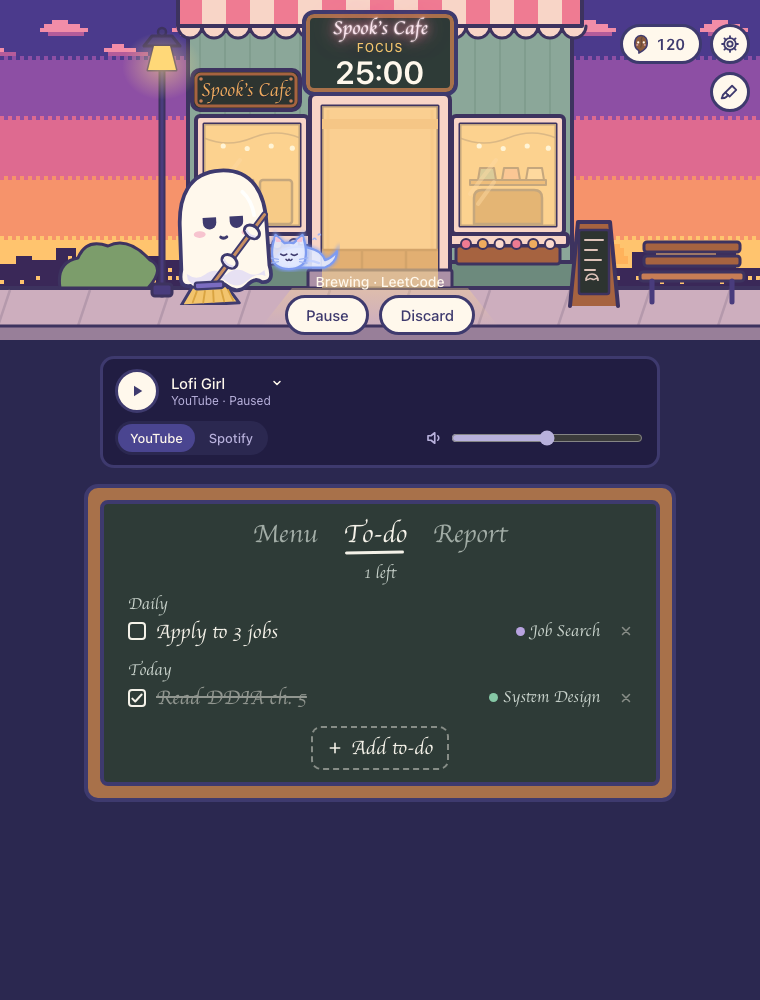
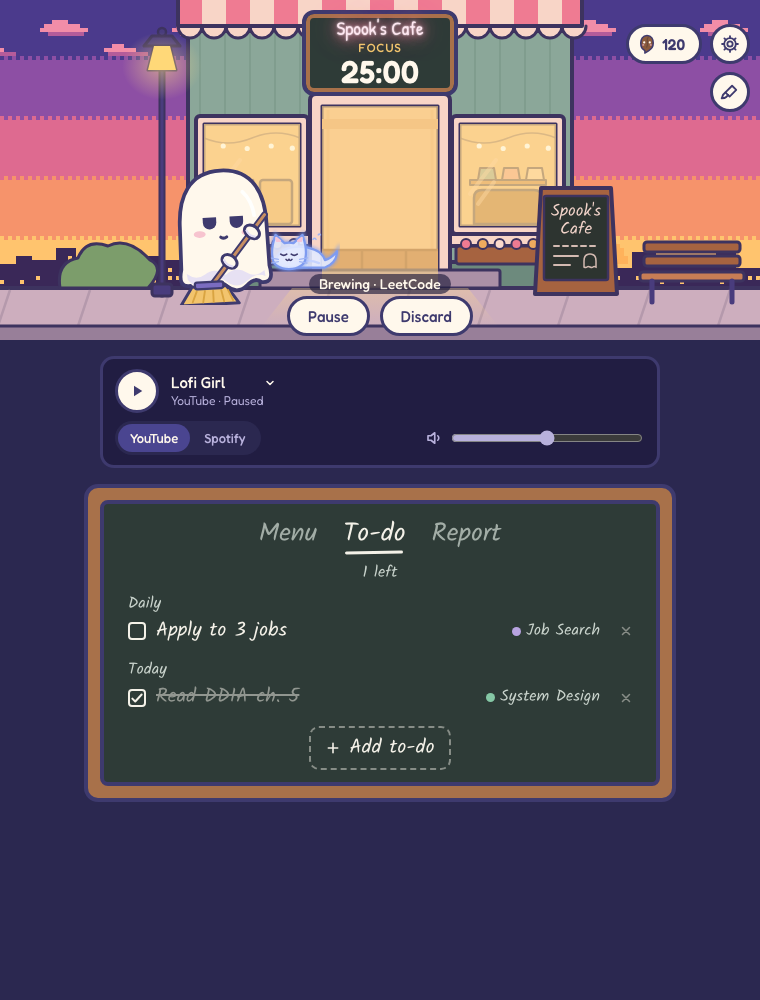
Defect Fixes

diff --git a/src/cafe/cafe.css b/src/cafe/cafe.css
@@ -227,16 +227,16 @@
   gap: 2px;
   pointer-events: none;
 }
-/* Painted lettering on the outside's name board; the hand font matches the neon sign's. */
+/* Chalk lettering on the outside's sidewalk chalkboard, in the chalkboard menu's hand. */
 .scene .lettering {
   position: absolute;
   display: flex;
   align-items: center;
   justify-content: center;
-  font: 400 18px/1 "Patrick Hand", cursive;
-  white-space: nowrap;
-  color: #f2c46d;
-  text-shadow: 0 1px 0 rgba(30, 27, 60, 0.6);
+  font: 400 17px/1.05 Kalam, cursive;
+  text-align: center;
+  white-space: pre-line;
+  color: #f4f1e8;
   pointer-events: none;
 }
 
@@ -280,9 +280,14 @@
   flex-direction: column;
   align-items: center;
   justify-content: center;
-  gap: 6px;
+  gap: 2px;
 }
+/* A dark pill behind the caption: cream text alone was hard to read on light art (1.6:1 on the
+   outside pavement). At 65% ink it stays above 4.5:1 even over white. */
 .scene .caption {
+  padding: 3px 10px;
+  border-radius: 999px;
+  background: rgba(30, 27, 60, 0.65);
   font: 500 14px/1 Fredoka, system-ui, sans-serif;
   color: var(--cream);
   pointer-events: none;
@@ -438,6 +443,9 @@
   position: absolute;
   z-index: 2;
   min-width: 150px;
+  /* The room beside a counter spot at the narrowest window (stage x 240–720 shows); hints wrap. */
+  max-width: 160px;
+  box-sizing: border-box;
   padding: 4px;
   display: flex;
   flex-direction: column;

diff --git a/src/cafe/DecorateSpots.tsx b/src/cafe/DecorateSpots.tsx
@@ -6,6 +6,8 @@ import type { SceneName } from "./scenes";
 
 // An empty spot is outlined at the size of a typical decoration.
 const EMPTY = { width: 48, height: 42 };
+// Spook floats under the sign, at the middle of the 960-wide stage.
+const SPOOK_X = 480;
 
 interface Props {
   scene: SceneName;
@@ -62,8 +64,16 @@ export function DecorateSpots({ scene, shop, place, onError }: Props) {
           <PickMenu
             label={slot.label}
             items={items}
-            // Opens above the spot: below it is the scene's bottom band and the buttons.
-            style={{ left: slot.x, top: box.top - 6, transform: "translate(-50%, -100%)" }}
+            // Normally above the spot (below is the bottom band and the buttons), growing away from
+            // Spook so it never covers him. `.pick-menu`'s max-width keeps it inside a narrow window.
+            style={
+              slot.menuBelow
+                ? // Grows leftwards, into the room: rightwards it would run off a window under 960 px.
+                  { left: box.left + width, top: slot.y + 6, transform: "translateX(-100%)" }
+                : slot.x < SPOOK_X
+                ? { left: box.left + width, top: box.top - 6, transform: "translate(-100%, -100%)" }
+                : { left: box.left, top: box.top - 6, transform: "translateY(-100%)" }
+            }
             onClose={() => setOpen(null)}
           />
         )}

diff --git a/src/App.css b/src/App.css
@@ -25,6 +25,16 @@ button { font-family: inherit; font-size: 1em; font-weight: 500; }
 button { cursor: pointer; }
 button:disabled { cursor: not-allowed; }
 
+/* Read by screen readers, not shown. Used across the app (the menu's radios, the sessions list). */
+.visually-hidden {
+  position: absolute;
+  width: 1px;
+  height: 1px;
+  overflow: hidden;
+  clip-path: inset(50%);
+  white-space: nowrap;
+}
+
 .swatch { width: 0.8rem; height: 0.8rem; border-radius: 50%; }
 .error { color: #e5484d; }
 
@@ -54,8 +64,8 @@ button.icon:hover { opacity: 1; }
 /* Inputs have an intrinsic width; without this they overflow narrow columns instead of shrinking. */
 .editor input { padding: 0.4em 0.6em; width: 100%; box-sizing: border-box; }
 .editor select { padding: 0.35em; border-radius: 8px; width: 100%; box-sizing: border-box; }
-.editor fieldset.scene { display: flex; flex-direction: column; gap: 0.5rem; }
-.editor fieldset.scene .hint { margin: 0; }
+.editor fieldset.scene-settings { display: flex; flex-direction: column; gap: 0.5rem; }
+.editor fieldset.scene-settings .hint { margin: 0; }
 .editor .pair { display: flex; gap: 0.5rem; }
 .editor summary { cursor: pointer; font-size: 0.9em; }
 .editor details .hint { margin: 0.25rem 0 0.5rem; }

diff --git a/src/cafe/shop.ts b/src/cafe/shop.ts
@@ -44,6 +44,9 @@ export interface Slot {
   x: number;
   y: number;
   scale: number;
+  /** Open its Decorate menu below the spot rather than above: for a spot up in the top-right
+   * corner, where a menu above would cover the ⚙ and brush buttons. */
+  menuBelow?: boolean;
 }
 
 // Placed against the layout contract in SPEC.md: off the sign, Spook's spot and the bottom band.
@@ -51,7 +54,7 @@ export const SLOTS: Slot[] = [
   { id: "counter-left", scene: "counter", label: "Counter · left of Spook", kind: "surface", layer: "front", x: 393, y: 251, scale: 0.9 },
   { id: "counter-right", scene: "counter", label: "Counter · right of Spook", kind: "surface", layer: "front", x: 580, y: 251, scale: 1 },
   { id: "tables-table", scene: "tables", label: "Tables · Spook's table", kind: "surface", layer: "front", x: 556, y: 244, scale: 0.9 },
-  { id: "tables-shelf", scene: "tables", label: "Tables · bookshelf", kind: "surface", layer: "back", x: 789, y: 141, scale: 0.7 },
+  { id: "tables-shelf", scene: "tables", label: "Tables · bookshelf", kind: "surface", layer: "back", x: 789, y: 141, scale: 0.7, menuBelow: true },
 ];
 
 export const itemById = (id: string) => CATALOGUE.find((i) => i.id === id);

diff --git a/src/useShop.ts b/src/useShop.ts
@@ -20,10 +20,18 @@ export function useShop() {
   const [earned, setEarned] = useState<Earned | null>(null);
   const visible = useWindowVisible();
 
-  // Also on showing the window: "to-do beans left today" resets at midnight without an event.
+  // "To-do beans left today" resets at midnight without an event, so also refetch on showing the
+  // window and at local midnight while it's open (re-armed with each change, like useTodos).
   useEffect(() => {
     if (visible) invoke<Shop>("get_shop").then(setShop);
   }, [visible]);
+
+  useEffect(() => {
+    const midnight = new Date();
+    midnight.setHours(24, 0, 1, 0);
+    const timer = setTimeout(() => invoke<Shop>("get_shop").then(setShop), midnight.getTime() - Date.now());
+    return () => clearTimeout(timer);
+  }, [shop]);
 
   useEffect(() => {
     const unlistenShop = listen<Shop>("shop", (e) => setShop(e.payload));

diff --git a/src/cafe/scenes.ts b/src/cafe/scenes.ts
@@ -56,8 +56,8 @@ export const SCENES: SceneArt[] = [
     glow: outsideGlow,
     // Nothing hides him here, so he floats lower in the doorway, nearer its floor.
     spookDrop: 16,
-    // Over the name board in design/cafe/build.mjs (NAME_BOARDS).
-    lettering: [{ text: "Spook's Cafe", x: 296, y: 74, w: 100, h: 32 }],
+    // Over the top of the sidewalk chalkboard's face (AFRAME in design/cafe/build.mjs).
+    lettering: [{ text: "Spook's\nCafe", x: 648, y: 200, w: 56, h: 42 }],
   },
   {
     name: "counter",

diff --git a/src/cafe/menu.css b/src/cafe/menu.css
@@ -487,12 +487,3 @@
 .daily-streaks li { display: flex; gap: 8px; font-size: 16px; line-height: 1.4; }
 .daily-streaks .name { flex: 1; min-width: 0; overflow: hidden; text-overflow: ellipsis; white-space: nowrap; }
 .daily-streaks .value { flex-shrink: 0; color: var(--chalk-dim); }
-
-.visually-hidden {
-  position: absolute;
-  width: 1px;
-  height: 1px;
-  overflow: hidden;
-  clip-path: inset(50%);
-  white-space: nowrap;
-}

diff --git a/src/SettingsDialog.tsx b/src/SettingsDialog.tsx
@@ -119,7 +119,7 @@ export function SettingsDialog({ onClose }: { onClose: () => void }) {
                 </span>
               </label>
             ))}
-            <fieldset className="scene">
+            <fieldset className="scene-settings">
               <legend>Scene</legend>
               <label>
                 Time of day

diff --git a/src-tauri/src/music/youtube.rs b/src-tauri/src/music/youtube.rs
@@ -35,17 +35,34 @@ const PLAYER_SCRIPT: &str = r#"
   if (window.top !== window) return;
   const KEY = "lofi-focus";
   if (!sessionStorage.getItem(KEY)) sessionStorage.setItem(KEY, __INITIAL__);
+  const want = () => JSON.parse(sessionStorage.getItem(KEY));
+  // Loudness is heard on a log scale, so a straight 0–1 slider is loud by the middle and all its
+  // useful range is near the bottom. Squaring spreads it out (50% plays at a quarter, about -12 dB).
+  const setVolume = (v, w) => {
+    const level = (w.volume / 100) ** 2;
+    if (Math.abs(v.volume - level) > 0.001) v.volume = level;
+    if (v.muted && w.volume > 0) v.muted = false;
+  };
   const apply = () => {
-    const want = JSON.parse(sessionStorage.getItem(KEY));
-    const v = document.querySelector("video");
+    const w = want();
+    // Every video, not just the first: an ad can play in its own element.
+    const videos = document.querySelectorAll("video");
+    videos.forEach((v) => setVolume(v, w));
+    const v = videos[0];
     if (!v) return;
-    if (Math.abs(v.volume - want.volume / 100) > 0.005) v.volume = want.volume / 100;
-    if (v.muted && want.volume > 0) v.muted = false;
-    if (want.playing && v.paused) v.play().catch(() => {});
-    if (!want.playing && !v.paused) v.pause();
+    if (w.playing && v.paused) v.play().catch(() => {});
+    if (!w.playing && !v.paused) v.pause();
   };
   window.__lofiApply = apply;
-  // Also undoes YouTube's own pauses and volume resets within a second.
+  // YouTube resets the volume on a new video, a stream reconnect or an ad. Media events don't
+  // bubble, but a capturing listener on the document sees them from every <video>, including ones
+  // added later, so the reset is undone straight away instead of playing loud until the next tick.
+  for (const type of ["volumechange", "loadeddata", "play"]) {
+    document.addEventListener(type, (e) => {
+      if (e.target instanceof HTMLMediaElement) setVolume(e.target, want());
+    }, true);
+  }
+  // Also undoes YouTube's own pauses within a second.
   setInterval(apply, 1000);
 })();
 "#;

diff --git a/src-tauri/src/lib.rs b/src-tauri/src/lib.rs
@@ -16,6 +16,7 @@ mod todos;
 mod tray;
 
 use tauri::{AppHandle, Emitter, Manager, RunEvent, WindowEvent};
+use tauri_plugin_window_state::StateFlags;
 
 pub const MAIN_WINDOW: &str = "main";
 
@@ -58,6 +59,14 @@ pub fn run() {
             tauri_plugin_autostart::MacosLauncher::LaunchAgent,
             Some(vec![settings::HIDDEN_ARG]),
         ))
+        // Remembers the main window's size and position across launches. Not its visibility:
+        // `setup` decides whether to show it (hidden when launched at login).
+        .plugin(
+            tauri_plugin_window_state::Builder::new()
+                .with_state_flags(StateFlags::SIZE | StateFlags::POSITION)
+                .with_filter(|label| label == MAIN_WINDOW)
+                .build(),
+        )
         .setup(|app| {
             let db = db::open(app.handle())?;
             let timer = timer::restore(&db)?;

diff --git a/CLAUDE.md b/CLAUDE.md
@@ -12,6 +12,7 @@ macOS Pomodoro tracker with a lofi theme (named Lofi Focus until step 6; the rep
 ## Stack
 - Tauri 2 + React + TypeScript (Vite), SQLite for storage.
 - Run the app with `npm run tauri dev`.
+- Install or update the real app with `npm run release:install` (`scripts/install-release.sh`: build → quit → back up the release db to `backups/` → replace in /Applications → relaunch).
 
 ## Environment
 - Shell is fish. Rust/cargo are on PATH via `~/.config/fish/conf.d/rustup.fish`.
@@ -21,11 +22,11 @@ macOS Pomodoro tracker with a lofi theme (named Lofi Focus until step 6; the rep
 - Step 1 done: YouTube spike chose the dedicated hidden window (findings in `docs/youtube-spike.md`; the spike app itself was deleted).
 - Step 2 done: app scaffolded at repo root; SQLite via rusqlite in Rust (`src-tauri/src/db.rs`, migrations in `src-tauri/migrations/`, run via `PRAGMA user_version`). Schema: `tasks`, `sessions` (user-written), single-row `settings`. Seeds verified in the running app.
 - Step 3 done, split 3a engine → 3b interruptions/persistence → 3c menu bar → 3d notifications. 3a: engine in `src-tauri/src/timer.rs` (Rust owns the timer, pushes `"timer"` events; React `useTimer` hook). 3a done and committed. 3b done (quit, crash and sleep verified in the app): `timer_state` table (migration 002), `src-tauri/src/timer/store.rs` save/load; saved every 5 s, on every change and on quit (`RunEvent::Exit`); restores paused; sleep detected as a >5 s gap between ticks on either clock (wall or `Instant`), pausing as of the last awake tick; tick failures sent as `timer-error` events. 3c done (verified in the app): `src-tauri/src/tray.rs` menu bar title + phase-aware menu; closing the window hides it and drops the Dock icon (Accessory policy). All user actions go through `timer::apply(Action)`; never touch UI while holding the timer lock (see comment in timer.rs). Tray menu has one task submenu (`Start focus` when idle, `Continue focus` during a break; break also offers `End break`) listing all tasks, last-used first and checkmarked, and is rebuilt only when phase/running/task changes — step 4's task editing must also trigger a tray menu rebuild. `LOFI_FAST=1` makes minutes run as seconds in dev; clear the fake sessions it logs with `npm run db:clear-sessions` (deletes all sessions in the dev DB only). 3d done (banner and chime verified in the app): `src-tauri/src/alerts.rs` posts a silent notification via `tauri-plugin-notification` and plays a chime with `afplay` (system Glass sound) when a phase ends on its own; `tick()` returns a `TickOutcome` and the ticker fires the alert after releasing the lock. Phases that would end during sleep pause instead, so they don't alert. In dev, notifications post as Terminal (plugin behaviour); the built `.app` asks for its own permission. Chime toggle is deferred to step 4 settings. `src-tauri/src/app_nap.rs` opts out of App Nap while the timer runs (otherwise throttled ticks look like sleep and pause the timer); it's driven from `publish`.
-- Step 4 done, split 4a weekly progress → 4b task editing → 4c settings → 4d session list. 4a done (verified in the app): `src-tauri/src/progress.rs` `weekly_progress` command (local Monday 00:00 bounds via chrono, DST-safe); React `useWeeklyProgress` hook refetches whenever the timer phase changes. Debug builds use a separate `lofi-focus-dev.db`; release uses `lofi-focus.db`. 4b done (verified in the app): `create_task`/`update_task`/`archive_task` in `tasks.rs` (validated in Rust, `Error::InvalidInput`), each calling `tray::refresh` (forced menu rebuild) after the db lock is released; React `TaskEditor.tsx` uses a native `<dialog>`. No unarchive UI yet. 4c done (verified in the app): `src-tauri/src/settings.rs` `get_settings`/`update_settings`; migration 003 adds `chime`, `always_on_top`; launch at login via `tauri-plugin-autostart` (LaunchAgent, passes `--hidden`) — macOS owns that state, it isn't in the db. Main window is `visible: false` in tauri.conf.json and shown in `setup` unless `--hidden`. React `SettingsDialog.tsx`; both dialogs share `useModal`. 4d done (verified in the app): `src-tauri/src/sessions.rs` `week_sessions`/`latest_session`/`update_session`/`delete_session` (start time and completed flag aren't editable; a session can move only to an active task or keep its archived one); React `SessionsDialog.tsx` (this week only — past weeks are the History Later ticket) and `NotePrompt.tsx` (shown during a break, notes `latest_session`). Session edits call `useWeeklyProgress().reload`, since they don't change the timer phase. 4e done (verified in the app): `weekly_progress` also returns `allTimeMinutes`, but it isn't displayed yet — where the long-term total goes is deferred until the overall UI design (step 6), so the main list stays weekly-only; `src-tauri/src/export.rs` `export_data(format)` writes all tasks+sessions (JSON) or sessions (CSV) to ~/Downloads and reveals the file in Finder; buttons are in the sessions dialog.
+- Step 4 done, split 4a weekly progress → 4b task editing → 4c settings → 4d session list. 4a done (verified in the app): `src-tauri/src/progress.rs` `weekly_progress` command (local Monday 00:00 bounds via chrono, DST-safe); React `useWeeklyProgress` hook refetches whenever the timer phase changes. Debug builds use a separate `lofi-focus-dev.db`; release uses `lofi-focus.db`. 4b done (verified in the app): `create_task`/`update_task`/`archive_task` in `tasks.rs` (validated in Rust, `Error::InvalidInput`), each calling `tray::refresh` (forced menu rebuild) after the db lock is released; React `TaskEditor.tsx` uses a native `<dialog>`. No unarchive UI yet. 4c done (verified in the app): `src-tauri/src/settings.rs` `get_settings`/`update_settings`; migration 003 adds `chime`, `always_on_top`; launch at login via `tauri-plugin-autostart` (LaunchAgent, passes `--hidden`) — macOS owns that state, it isn't in the db. Main window is `visible: false` in tauri.conf.json and shown in `setup` unless `--hidden`. It opens 960 wide (the whole scene; min 480 crops the sides), and `tauri-plugin-window-state` remembers its size and position (main window only, never visibility, so `--hidden` still works). React `SettingsDialog.tsx`; both dialogs share `useModal`. 4d done (verified in the app): `src-tauri/src/sessions.rs` `week_sessions`/`latest_session`/`update_session`/`delete_session` (start time and completed flag aren't editable; a session can move only to an active task or keep its archived one); React `SessionsDialog.tsx` (this week only — past weeks are the History Later ticket) and `NotePrompt.tsx` (shown during a break, notes `latest_session`). Session edits call `useWeeklyProgress().reload`, since they don't change the timer phase. 4e done (verified in the app): `weekly_progress` also returns `allTimeMinutes`, but it isn't displayed yet — where the long-term total goes is deferred until the overall UI design (step 6), so the main list stays weekly-only; `src-tauri/src/export.rs` `export_data(format)` writes all tasks+sessions (JSON) or sessions (CSV) to ~/Downloads and reveals the file in Finder; buttons are in the sessions dialog.
 - Step 5 in progress, split 5a YouTube → 5b Spotify → 5c local folder (optional). 5a done (verified in the app): `src-tauri/src/music.rs` (state, commands, `change()` mirrors `timer::apply`; migration 004 stores source/custom URL/volume, never `playing`) and `music/player.rs` (hidden `yt-player` window created on first play and kept; desired-state control — an initialization script keeps the `<video>` matching `{playing, volume}` in the page's sessionStorage, commands only update it). The player window has no capability, so YouTube pages can't call Tauri commands. Sign-in window reloads the player on close. Tray has a play/pause music item; React `useMusic` + `MusicBar`. 5b done (verified in the app): `Service` (YouTube | Spotify, migration 005), one plays at a time; `music/spotify.rs` drives the Spotify app with `osascript` (`ensure_installed` before any `tell`, `is running` checks don't launch it), a 3 s watcher adopts state changed inside Spotify except within 3 s of our own command (`COMMAND_SETTLE`); `music/youtube.rs` (was player.rs) closes its window on service switch and after 10 min paused. `src-tauri/Info.plist` adds `NSAppleEventsUsageDescription`. In dev, macOS attributes the Automation permission to the app at the top of the process chain (VS Code when run from its terminal), so the prompt and the System Settings → Privacy & Security → Automation entry say Visual Studio Code; the built `.app` asks under its own name. Tray shows ⏭ Next track for Spotify.
 - Step 6 in progress (the Spook cafe), split 6a scene → 6b time of day → 6c chalkboard menu + dialogs → 6d music bar. Design decisions and mockup link are in SPEC.md Look & shell. 6a done (committed): art is SVG generated by `node design/spook/build.mjs` and `node design/cafe/build.mjs` straight into `src/assets/` (design/ keeps scripts + preview pages; never hand-edit the generated SVGs). `src/cafe/Scene.tsx` stacks sky → back wall → tint → Spook → counter → tint inside a 960×340 `.stage` centred in the scene, so the 480–960-wide window crops the sides; tints are masked to their room layer so the sky and Spook keep their colours. Tauri drag regions only fire on the pressed element itself, so `.scene`, `.stage` and `.counter` all carry `data-tauri-drag-region` and art layers are `pointer-events: none`. `Spook.tsx` `poseFor(timer)` (paused → sleep wins). Window uses `titleBarStyle: Overlay`. Tray shows a Spook template icon (`src-tauri/icons/tray.png`, rendered from `design/spook/tray-icon.svg`; needs tauri's `image-png` feature) with just the clock as title. Fonts are bundled via `@fontsource` (Fredoka; Patrick Hand reserved for 6c). Below the scene is still the old UI in dark colours until 6c/6d. 6b done (committed): migration 006 adds `morning_start`…`night_start` (hours, must be strictly increasing; night wraps) and `scene_time` (`auto` or a pinned time of day); `update_settings` emits `settings` (React `useSettings`); `lib.rs` emits `window-visible` from `show_main_window` and the close handler (React `useWindowVisible`), and the scene adds `.paused` to freeze its CSS animations while hidden. 6c done (committed): `src/cafe/ChalkboardMenu.tsx` + `menu.css` replace the task list (native radios kept but visually hidden, row focus via `:has(input:focus-visible)`; locked during focus); the unit is `SpookFace.tsx`, an inline SVG in `currentColor`. Dialogs (`.editor`) and `NotePrompt` are restyled as cream cards in App.css only; dialog components are unchanged. Kalam is the chalk font (Patrick Hand was too clean; a grain filter on it hurt readability and was dropped); Patrick Hand stays on the neon sign. 6d done: `MusicBar.tsx` restyled as a dark strip (same controls; drawn icons instead of emoji) and now takes `useMusic()` as props — App calls `useMusic` once and also passes `playing` to the scene. Spook's ♪ notes are a separate overlay (`spook-notes.svg`, generated by the Spook build) shown while music plays in poses where he wears headphones (`PoseArt.headphones`: counter and tables focus; not outside, where he sweeps without them). 6e done (committed): renamed to Spook's Cafe (display names only — see the top of this file); neon sign text in `.sign`; `.drip` CSS drops under the espresso spout; `music::youtube_thumbnail` command (`youtube::thumbnail`: a `watch?v=` link maps straight to its ytimg thumbnail, otherwise curl fetches the page and reads `og:image`, accepting only `https://i.ytimg.com/`), React `useTvThumbnail` refetches only when the station changes; `.tv-screen` overlays the TV screen above the room tint. 6f scenes, built and awaiting verification (decisions in SPEC.md Look & shell → Scenes): `src/cafe/scenes.ts` lists scenes left to right (art layers, skies, window rect); `Scene.tsx` renders one `.panel` per scene, stacked in a `.strip` and crossfaded (a pan was tried and dropped), under a fixed `.overlay` holding sign, buttons, ⚙ and ◀ ▶ arrows. Spook renders only in the active panel. Tints get their mask inline per scene. `useScene` reads/writes `scene` (migration 007, `src-tauri/src/scene.rs`; 'outside' already allowed by the CHECK); transitions switch on only after the first click. The sign and buttons are a fixed overlay in every scene; scene art follows the layout contract in SPEC.md (plain wall top centre, Spook's spot under it, calm bottom band). Each scene has its own pose set (`SceneArt.poses`, from `COUNTER_POSES`/`TABLE_POSES` in `Spook.tsx`); the build writes `spook-<pose>.svg` for the counter and `spook-<pose>-<scene>.svg` otherwise, plus `-props.svg` for things standing on the table, which `Scene.tsx` renders above the front tint as a still `.spook-props` (table poses built, awaiting verification in the app; idle is on trial). `design/cafe/build.mjs` `pixelSky(t, window)` fills any window by tiling the 33-column patterns; the counter's art renders pixel-identical to before.
 - Step 7 in progress (features the user asked for, so Claude builds them), split 7a to-do list → 7b reporting → 7c cafe shop; decisions in SPEC.md. 7a built, awaiting verification in the app: migration 008 `todos` (optional `task_id`), migration 009 adds `daily`, `deleted_at` (delete only hides) and the `todo_ticks` history table, replacing 008's `done_at`; `src-tauri/src/todos.rs` `list_todos`/`add_todo`/`set_todo_done`/`delete_todo` (each returns the whole list; "today" uses `progress::local_midnight`; `set_done` takes `now`/`today` so tests can cross midnight), `db::migrate_to` lets tests stop part-way through the migrations; React `useTodos` (refetches when the window is shown and at local midnight) and `src/cafe/TodoList.tsx` (list only; "+ Add to-do" opens `src/TodoEditor.tsx`, portalled to `<body>` so it doesn't inherit the board's chalk styles). The chalkboard is tabbed (built, awaiting verification; design in SPEC.md Look & shell → Chalkboard sections): `src/cafe/Chalkboard.tsx` owns the tabs (ARIA tab pattern, section in localStorage `chalkboard-section`) and `useTodos` (kept there so switching tabs doesn't refetch), and renders one of `MenuSection.tsx` (was ChalkboardMenu), `TodoList.tsx` (takes the `Todos` state as a prop) or `ReportSection.tsx` (placeholder until 7b). Styles stay in `menu.css`.
 - 7b reporting, split 7b-1 Week → 7b-2 Trends (design in SPEC.md Reporting). 7b-1 and 7b-2 built, awaiting verification in the app: migration 010 `week_targets` (recorded by `weekly_progress` on first load of a week, updated by `create_task`/`update_task`; no row → current target); `src-tauri/src/report.rs` `report_week(weeksAgo)` (week bounds via `week_bounds`, habit days bucketed by each day's own local midnight). React `useWeekReport` (ignores stale replies), `ReportSection.tsx` (Week/Trends `.chalk-switch`, view in localStorage `report-view`, status line is the ◀ week ▶ navigator), `WeekView.tsx`, `Donut.tsx` (hand-drawn SVG, ≤6 slices, rest folded into "Other"); shared `week.ts` (`hours`, `weekLabel`). `Chalkboard` now takes `phase`. The task colours fail colour-blind separation on the dark board (validator: System Design ↔ Job Search ΔE 1.7 deutan), so charts never rely on colour alone (legend always named). Preview harness pattern: bundle real components with Vite (`--configLoader native`) and a mocked `@tauri-apps/api` in the scratchpad. 7b-2: `src-tauri/src/report/trends.rs` `report_trends` (heatmap days from the Monday 15 weeks back through today; `streak()` is a pure function over a date set, today pending until midnight; insights over all sessions; per-task 8 weeks via `task_weeks`), React `useReport<T>` (generic; replaced useWeekReport), `TrendsView.tsx`, `Heatmap.tsx` (one Tab stop, arrow keys). Report tests backdate the seeded tasks' `created_at`, since the seeds are created "now".
 - 7c cafe shop built, awaiting verification in the app (design in SPEC.md Cafe shop). Migration 011: append-only `bean_ledger` (balance = sum; unique `ref` + `INSERT OR IGNORE` makes every award idempotent: `session:<id>`, `todo:<id>` / `todo:<id>:<midnight>`, `target:<task>:<Monday date>`, `item:<id>`), `owned_items`, `placements(slot_id PK, item_id UNIQUE)`, `settings.hat`; the migration backfills history. `src-tauri/src/shop.rs` holds the rules, catalogue and slots (ids must match `src/cafe/shop.ts`); `timer::complete_focus` and `todos::set_done` award inside the same transaction as the session/tick, then `shop::publish_earned` emits `shop` + `beans-earned` after the locks are released. React: `useShop` (one instance in App), `ShopDialog.tsx` (buying only), `BeanIcon.tsx`, bean button next to ⚙ with a "+N" float; hats are changed by clicking Spook (`.spook-hit` in the overlay) and decorations placed in Decorate mode (brush under ⚙, `DecorateSpots.tsx`), both through the shared `PickMenu.tsx`; `Scene.tsx` renders decorations per slot (each with its own tint masked to itself, lit `-glow` art above it in the evening/night) and the hat via `Spook`'s `hat` prop (keyed so it bobs in step). Art: hats in `design/spook/build.mjs` (`hat-<hat>-<pose>[-table].svg`; headphones are redrawn over the hat, with a raised band for snug hats in `RAISED_BAND`), bean and decorations in `design/shop/build.mjs` → `src/assets/shop/`. `npm run db:grant-beans` adds 1000 beans to the dev DB only, for testing. Controls have no global look: App.css only gives `input`/`button` the app's font and a pointer cursor, and each surface styles its own controls and keyboard focus (board: dashed chalk; scene: dashed cream; cream cards: solid ink; music strip: lavender; text fields: border colour).
-- Outside scene built (awaiting verification in the app; SPEC.md Scenes → Outside): `outside-back/glow.svg` and `outside-sky-<time>.svg` from `design/cafe/build.mjs` (`pixelSky` takes an optional `bodyCol`; the other scenes' SVGs are byte-identical); Spook floats in an open doorway with nothing in front, so `SceneArt.front` is optional (no front layer or front tint), and he floats 16 px lower there (`SceneArt.spookDrop` sets the CSS variable `--spook-drop` on the stage, which every Spook-following `top` in cafe.css adds; a `top` offset because his bob owns `transform`); first in `SCENES`, with its own `OUTSIDE_POSES` (focus = sweeping the pavement without headphones; `PoseArt.offset` moves him for a pose, here out of the doorway to the left, and `spookPlace` in Scene.tsx turns scene drop + pose offset into the `--spook-drop` / `--spook-shift` variables that every Spook-following `top`/`left` in cafe.css adds) (`spook-<pose>-outside.svg`; `hatArt` maps scene → file suffix in `POSE_SUFFIX`). New overlay kind `held` (`spook-<name>-held.svg`, written with the pose's transform): something he holds that also moves on its own. `Spook` renders it as a bobbing `.spook` wrapper around a `.spook-held` image that swishes (two animations can't share one element's `transform`); the Fragment is keyed by pose and hat so everything mounts together and bobs in step. `SceneArt.glow` is an optional layer drawn above the back tint in the evening/night; `SceneArt.lettering` is HTML text laid over the name board drawn in the back layer (an SVG shown as `<img>` can't use the app's web fonts), drawn before the back tint so it darkens with its board; keep it in step with `NAME_BOARDS` in the builder. Fixed in passing: `maskTo` now quotes its `url()`. Vite inlines SVGs under 4 KB as `data:` URIs, which broke unquoted masks, so the front tint covered the whole stage and dimmed Spook at the tables at night (and the pumpkin's tint box). Headless screenshots of big SVGs need `--run-all-compositor-stages-before-draw`, or unpainted 256 px tiles show through.
+- Outside scene built (awaiting verification in the app; SPEC.md Scenes → Outside): `outside-back/glow.svg` and `outside-sky-<time>.svg` from `design/cafe/build.mjs` (`pixelSky` takes an optional `bodyCol`; the other scenes' SVGs are byte-identical); Spook floats in an open doorway with nothing in front, so `SceneArt.front` is optional (no front layer or front tint), and he floats 16 px lower there (`SceneArt.spookDrop` sets the CSS variable `--spook-drop` on the stage, which every Spook-following `top` in cafe.css adds; a `top` offset because his bob owns `transform`); first in `SCENES`, with its own `OUTSIDE_POSES` (focus = sweeping the pavement without headphones; `PoseArt.offset` moves him for a pose, here out of the doorway to the left, and `spookPlace` in Scene.tsx turns scene drop + pose offset into the `--spook-drop` / `--spook-shift` variables that every Spook-following `top`/`left` in cafe.css adds) (`spook-<pose>-outside.svg`; `hatArt` maps scene → file suffix in `POSE_SUFFIX`). New overlay kind `held` (`spook-<name>-held.svg`, written with the pose's transform): something he holds that also moves on its own. `Spook` renders it as a bobbing `.spook` wrapper around a `.spook-held` image that swishes (two animations can't share one element's `transform`); the Fragment is keyed by pose and hat so everything mounts together and bobs in step. `SceneArt.glow` is an optional layer drawn above the back tint in the evening/night; `SceneArt.lettering` is HTML text laid over a board drawn in the back layer (an SVG shown as `<img>` can't use the app's web fonts), drawn before the back tint so it darkens with its board; outside it's the cafe's name on the sidewalk A-frame, so keep it in step with `AFRAME` in the builder (the glow layer masks the window light off the A-frame with the same outline). Fixed in passing: `maskTo` now quotes its `url()`. Vite inlines SVGs under 4 KB as `data:` URIs, which broke unquoted masks, so the front tint covered the whole stage and dimmed Spook at the tables at night (and the pumpkin's tint box). Headless screenshots of big SVGs need `--run-all-compositor-stages-before-draw`, or unpainted 256 px tiles show through.
 - Mochi the ghost cat (built, awaiting verification in the app; SPEC.md Look & shell → Mochi): `mochi-curled.svg` / `mochi-petted.svg` from `design/spook/build.mjs` (own small boxes at Spook's scale, base on the bottom edge; palette `M`, the outline drawn twice, blurred for the glow via an SVG filter and crisp on top); `src/cafe/mochi.ts` holds each scene's spot (`MOCHI_SPOTS`, with a back/front layer) and `mochiArt(scene, pose)` (petted only outside on a break); `Scene.tsx` draws it after the tints so it keeps its colours, with its own `mochi-float` bob and a night drop-shadow glow. Outside it sits behind Spook so his petting mitt lands on its head. The outside break pose draws the petting arm, mitt and hearts; the to-go cup was removed.

diff --git a/DEFECTS.md b/DEFECTS.md
@@ -9,20 +9,20 @@ Each item: what's wrong, where, and how to see it.
 
 ### Look
 - [ ] **Mochi needs more work.** The redraw after the reference image (2026-10-08) is a step up but not final. Ideas so far: open eyes when awake, rounder head, longer tail. Art: `design/spook/build.mjs` → "Mochi"; spots: `src/cafe/mochi.ts`.
-- [ ] **A stray pink dot above Mochi in the tables scene**: it's the bud vase's flower. Mochi lies in front of the vase on Spook's table and hides it, so only the pink flower and a bit of stem poke out above the cat's head. Move the vase (`bud-vase` in `design/cafe/build.mjs`, drawn into `tables-front.svg`) or Mochi's spot (`MOCHI_SPOTS.tables` in `src/cafe/mochi.ts`).
-- [ ] **Mochi floats in mid-air in the outside scene.** Its one outside spot (`MOCHI_SPOTS.outside` in `src/cafe/mochi.ts`, x 404) was moved left so Spook could reach it while petting. But the curled-up Mochi is about 72 px wide, so its left half now hangs past the doorstep's left end (x 408) over the window box. And the petted Mochi floats beside the doorway with nothing under it. Likely fix: a spot per pose (curled on the doorstep proper, petted resting on something such as the window-box ledge), and/or Spook reaching further.
-- [ ] **Make the sidewalk chalkboard bigger and put the cafe's name on it, in place of the name board on the building** (outside scene). Today the A-frame (`aFrame(694)` in `design/cafe/build.mjs`) is small and shows only chalk scribbles, and "Spook's Cafe" is on a board left of the timer sign (`nameBoards`, plus `lettering` in `src/cafe/scenes.ts`). To do: draw a larger A-frame; move the `lettering` entry onto its face (chalk-white Kalam, like the chalkboard menu, rather than gold paint); remove the building board, and the space it took above the left window. Check it at the narrowest window, where the A-frame sits at the right edge near the buttons. This reverses a decision recorded in SPEC.md (Scenes → Outside), so update that too.
+- [x] (Fixed 2026-10-13: the vase moved to the big window's sill, `budVase` in the back layer.) **A stray pink dot above Mochi in the tables scene**: it's the bud vase's flower. Mochi lies in front of the vase on Spook's table and hides it, so only the pink flower and a bit of stem poke out above the cat's head. Move the vase (`bud-vase` in `design/cafe/build.mjs`, drawn into `tables-front.svg`) or Mochi's spot (`MOCHI_SPOTS.tables` in `src/cafe/mochi.ts`).
+- [x] (Fixed 2026-10-13: the doorstep was widened to stage x 360–600 (`STEP` in `design/cafe/build.mjs`), so both the curled and the petted Mochi rest on stone; Mochi's spot and Spook's mitt are unchanged.) **Mochi floats in mid-air in the outside scene.** Its one outside spot (`MOCHI_SPOTS.outside` in `src/cafe/mochi.ts`, x 404) was moved left so Spook could reach it while petting. But the curled-up Mochi is about 72 px wide, so its left half now hangs past the doorstep's left end (x 408) over the window box. And the petted Mochi floats beside the doorway with nothing under it. Likely fix: a spot per pose (curled on the doorstep proper, petted resting on something such as the window-box ledge), and/or Spook reaching further.
+- [x] (Fixed 2026-10-13: `AFRAME` in `design/cafe/build.mjs`, face 64×84 at x 644–708, feet at y 294; the name board is gone; window glow masked off the board; SPEC updated.) **Make the sidewalk chalkboard bigger and put the cafe's name on it, in place of the name board on the building** (outside scene). Today the A-frame (`aFrame(694)` in `design/cafe/build.mjs`) is small and shows only chalk scribbles, and "Spook's Cafe" is on a board left of the timer sign (`nameBoards`, plus `lettering` in `src/cafe/scenes.ts`). To do: draw a larger A-frame; move the `lettering` entry onto its face (chalk-white Kalam, like the chalkboard menu, rather than gold paint); remove the building board, and the space it took above the left window. Check it at the narrowest window, where the A-frame sits at the right edge near the buttons. This reverses a decision recorded in SPEC.md (Scenes → Outside), so update that too.
 - [ ] **The chairs need a revamp** (tables scene). All three are the same front-facing bentwood chair from `frontChair()` in `design/cafe/build.mjs`: the empty one at Spook's table (front layer, `spooksTable`) and the pair at the two-seat table (back layer, `leftTable`, scale 0.8). They're thin ink outlines with no wood fill on the back or legs, so they read as wireframes next to the filled furniture. What exactly to change hasn't been decided yet.
 - [ ] **The tables' idle pose is still on trial** (Spook resting his cheeks on his mitts). The user wasn't sure about it. `design/spook/build.mjs` → `poses.table.idle`.
 
 ### Dialogs
-- [ ] **A big empty gap under "Time of day" in Settings.** The label is stretched to 123 px (about 70 px too tall), matching the height of the four-dropdown grid below it. Cause: `.editor label { flex: 1 }` in `src/App.css` is meant for labels side by side in a row, but the Scene section (`.editor fieldset.scene`) is a flex *column*, so `flex: 1` makes the label grow vertically. Fix: `.editor fieldset.scene label { flex: none; }`, or scope the `flex: 1` to row containers such as `.pair` and `.grid`.
+- [x] **A big empty gap under "Time of day" in Settings.** (Fixed 2026-10-13. The real cause was a global class clash: the fieldset was `className="scene"`, so cafe.css's `.scene { height: 340px; overflow: hidden; user-select: none }` applied to it, and the `flex: 1` label grew to fill the slack. Renamed to `scene-settings`.) The label is stretched to 123 px (about 70 px too tall), matching the height of the four-dropdown grid below it. Cause: `.editor label { flex: 1 }` in `src/App.css` is meant for labels side by side in a row, but the Scene section (`.editor fieldset.scene`) is a flex *column*, so `flex: 1` makes the label grow vertically. Fix: `.editor fieldset.scene label { flex: none; }`, or scope the `flex: 1` to row containers such as `.pair` and `.grid`.
 
 ### Leftovers from before the cafe look
 - [x] **The Sessions dialog still marks completed blocks with 🍅** (fixed 2026-10-13: `<SpookFace />` with a hidden "completed" label; the timer.rs comment too) (`src/SessionsDialog.tsx`, the `stats` line: `{s.durationMinutes}m {s.completed ? "🍅" : "· partial"}`). Since step 6 the unit is Spook's face (`SpookFace.tsx`, as in the menu's block counts in `MenuSection.tsx`). Swap in `<SpookFace />` with an accessible label such as "completed". (A doc comment in `src-tauri/src/timer.rs` on `Action::Discard` also says 🍅; it isn't shown to users, but could say "completed block".)
 
 ### Music
-- [ ] **YouTube plays very loudly, and the volume sometimes jumps up out of nowhere** (reported 2026-10-08). Player script: `PLAYER_SCRIPT` in `src-tauri/src/music/youtube.rs`. Likely causes, not yet confirmed:
+- [x] **YouTube plays very loudly, and the volume sometimes jumps up out of nowhere** (Fixed 2026-10-13, not yet heard in the app: the level is squared (50% → 0.25, about −12 dB); a capturing `volumechange`/`loadeddata`/`play` listener on the document re-applies it to every `<video>` straight away; the volume goes to all videos, not just the first. Spotify keeps its own volume curve, so the same slider value may sound different between the two.) (reported 2026-10-08). Player script: `PLAYER_SCRIPT` in `src-tauri/src/music/youtube.rs`. Likely causes, not yet confirmed:
   - *Too loud overall:* the slider maps straight onto `video.volume` (`volume / 100`), but loudness is perceived on a log scale. 50% still sounds loud, and the usable range is squeezed into the bottom fifth of the slider. A perceptual curve (e.g. `(v / 100) ** 2`) would spread it out.
   - *Sudden jumps:* the script only re-applies the volume once a second (`setInterval(apply, 1000)`). When YouTube resets it (a new video or stream reconnect, an ad, its own saved player volume), it can play at full volume for up to a second. Re-applying on the `<video>`'s `volumechange` / `loadeddata` / `play` events would close that gap.
   - *Also possible:* it only controls the first `<video>` on the page (`querySelector`), so an ad's separate video element would play at its own volume; and YouTube's "Stable volume" can change loudness between segments.
@@ -42,13 +42,13 @@ Each item: what's wrong, where, and how to see it.
   - Anything that only shows on hover.
   - Whether the main actions want shortcuts (e.g. Space for start/pause), and whether the tray menu covers what the window can't.
 
-- [ ] **The caption under the scene ("Next up · LeetCode", "Brewing · …") is hard to read in some scenes.** It's 14 px cream text (`.scene .caption` in `src/cafe/cafe.css`) with no backing, so its contrast depends on the art behind it. Measured against the scene colours, it never reaches the 4.5:1 that WCAG asks of normal text: counter front 3.9:1, counter top and table top 2.6:1, tables floor and doorway floor 3.1:1, outside doorstep 2.2:1, outside pavement **1.6:1**. Fix options: a translucent dark pill behind it, like a label (works in every scene whatever the art; recommended), or a dark text shadow/outline (lighter touch, but thin text on busy art stays weak). The timer buttons are fine: they have their own cream fill.
+- [x] (Fixed 2026-10-13: a 65% ink pill behind it, ≥ 4.9:1 even over white.) **The caption under the scene ("Next up · LeetCode", "Brewing · …") is hard to read in some scenes.** It's 14 px cream text (`.scene .caption` in `src/cafe/cafe.css`) with no backing, so its contrast depends on the art behind it. Measured against the scene colours, it never reaches the 4.5:1 that WCAG asks of normal text: counter front 3.9:1, counter top and table top 2.6:1, tables floor and doorway floor 3.1:1, outside doorstep 2.2:1, outside pavement **1.6:1**. Fix options: a translucent dark pill behind it, like a label (works in every scene whatever the art; recommended), or a dark text shadow/outline (lighter touch, but thin text on busy art stays weak). The timer buttons are fine: they have their own cream fill.
 
 ### Shop
-- [ ] **The bookshelf decoration spot only shows in wide windows** (about 870 px and up), so you can't see or place anything there at the default width. `SLOTS` in `src/cafe/shop.ts`.
-- [ ] **A spot's menu in Decorate mode can cover Spook** (its menu opens above the spot, and the Spook's-table spot is right beside him). `DecorateSpots.tsx`.
-- [ ] **"Today's to-do beans maxed" can be stale after midnight** if the window stays open, since `useShop` only refetches when the window is shown or beans come in.
-- [ ] **A to-do ticked before migration 011 can pay again if it's unticked and re-ticked.** The backfill paid it as one lump row with no `ref`, so the re-tick's `todo:<id>` ref looks new. Worth at most 2 beans per old to-do.
+- [x] (Fixed 2026-10-13: the window now opens 960 wide, showing the whole scene, and remembers its size; the spot's menu opens below it, clear of ⚙. In a window narrowed below ~870 px the shelf is still cropped or under the corner buttons.) **The bookshelf decoration spot only shows in wide windows** (about 870 px and up), so you can't see or place anything there at the default width. `SLOTS` in `src/cafe/shop.ts`.
+- [x] **A spot's menu in Decorate mode can cover Spook** (Fixed 2026-10-13: it grows away from him, and `.pick-menu` is capped at 160 px so hints wrap and it fits a 480 px window. The bookshelf spot's menu still overlaps ⚙ at full width; see the bookshelf item.) (its menu opens above the spot, and the Spook's-table spot is right beside him). `DecorateSpots.tsx`.
+- [x] **"Today's to-do beans maxed" can be stale after midnight** (Fixed 2026-10-13: `useShop` also refetches at local midnight.) if the window stays open, since `useShop` only refetches when the window is shown or beans come in.
+- [x] **A to-do ticked before migration 011 can pay again if it's unticked and re-ticked.** (Won't fix, 2026-10-13: at most 2 beans per old to-do, once, and fixing it would need a migration to backfill per-to-do refs.) The backfill paid it as one lump row with no `ref`, so the re-tick's `todo:<id>` ref looks new. Worth at most 2 beans per old to-do.
 
 ### Tech debt
 - [x] **The Tauri template's global `input, button` rules in `App.css`** (including `transition: border-color 0.25s`) leak into every custom control, so each one has to reset padding, background, box-shadow and transitions. Scope them to the old controls or remove them. (Fixed 2026-10-13: removed, leaving only font and cursor. Each control now declares what it used, and the `box-shadow: none` resets are gone. Checked by diffing every control's computed style in 20 headless scenarios: no visible change apart from the new focus rings.)
